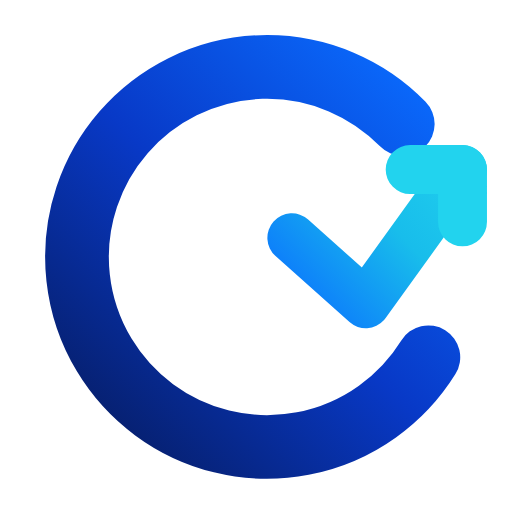
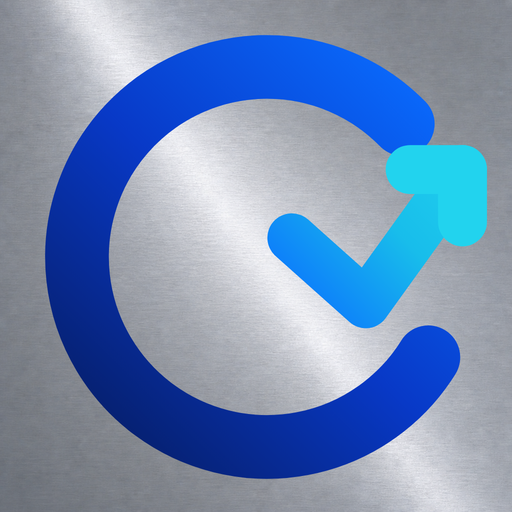
feat: refresh prompts and silver listing identity (#3)
Scope: v0.1.2 steer-first anti-churn prompts, silver satin identity, release evidence, and provider metadata

Checks: 55 tests passed; release and provider validators passed

Safety: existing plugin identity retained; no provider publication in this commit.

diff --git a/tools/validate_release_candidate.py b/tools/validate_release_candidate.py
@@ -24,9 +24,9 @@ CORE = PLUGIN / "scripts" / "churn_control.py"
 EXPECTED_SUBTITLE = "Stop duplicate agent work"
 EXPECTED_LONG = "Use this before repeating an agent test, review, retry, tool call, or promotion check. Anti-Churn compares the proposed local action with accepted evidence, reuses matching results, permits changed work through typed invalidation, and shows what may be skipped versus what still must run. Do not use rate-limit percentage as stop authority; it gates only the duplicate action and never stops the task, publishes, or changes permissions."
 EXPECTED_PROMPTS = [
-    "Before rerunning this test suite, check whether accepted evidence already covers the same candidate and requirements.",
-    "This candidate changed. Tell me which checks are actually invalidated and which results I can reuse.",
-    "Audit this long agent task for repeated tests, reviews, retries, polling, and duplicate status updates.",
+    "Steer: We’ve been working on this build for a long time and the task is starting to sprawl. Audit the work so far against the original goal, identify repeated tests, reviews, retries, polling, or status updates, and tell me what evidence we can reuse. Keep the task moving, but stop us from burning tokens on duplicate work.",
+    "Before we run another full test and review cycle, check whether the current candidate and requirements are already covered. Show what must still run and what would be duplicate work.",
+    "This candidate changed after the last review. Compare the changed files and requirements with the accepted evidence, tell me which checks were actually invalidated, and reuse everything that still applies.",
 ]
 
 REQUIRED_FILES = (
@@ -56,6 +56,9 @@ REQUIRED_FILES = (
     "plugins/agent-churn-control/assets/sample-efficiency-measurement.json",
     "plugins/agent-churn-control/assets/Agent Churn Control Vector Master 230826.svg",
     "plugins/agent-churn-control/assets/Agent Churn Control Vector Dark 230826.svg",
+    "plugins/agent-churn-control/assets/Agent Churn Control Transparent Raster Master 230826.png",
+    "plugins/agent-churn-control/assets/Anti-Churn Silver Satin Master 240826.png",
+    "plugins/agent-churn-control/assets/Silver Satin Background Master 240826.png",
     "plugins/agent-churn-control/assets/Logo Generation Manifest 230826.json",
     "plugins/agent-churn-control/assets/icon.png",
     "plugins/agent-churn-control/assets/logo.png",
@@ -186,7 +189,7 @@ def validate_metadata() -> list[str]:
     measurement = load_json(PLUGIN / "assets" / "sample-efficiency-measurement.json")
     skill_text = (PLUGIN / "skills" / "agent-churn-control" / "SKILL.md").read_text(encoding="utf-8-sig")
     expected = {
-        "name": "agent-churn-control", "version": "0.1.1", "license": "MIT",
+        "name": "agent-churn-control", "version": "0.1.2", "license": "MIT",
         "homepage": "https://github.com/SpannDaMan/agent-churn-control",
         "repository": "https://github.com/SpannDaMan/agent-churn-control",
     }
@@ -256,9 +259,9 @@ def validate_metadata() -> list[str]:
         errors.append("Claude marketplace root mismatch")
     else:
         claude_entry = claude_entries[0]
-        if claude_entry.get("name") != "anti-churn" or claude_entry.get("source") != "./plugins/agent-churn-control" or claude_entry.get("version") != "0.1.1":
+        if claude_entry.get("name") != "anti-churn" or claude_entry.get("source") != "./plugins/agent-churn-control" or claude_entry.get("version") != "0.1.2":
             errors.append("Claude marketplace plugin entry mismatch")
-    if claude_plugin.get("name") != "anti-churn" or claude_plugin.get("version") != "0.1.1" or claude_plugin.get("author", {}).get("name") != "Orbral":
+    if claude_plugin.get("name") != "anti-churn" or claude_plugin.get("version") != "0.1.2" or claude_plugin.get("author", {}).get("name") != "Orbral":
         errors.append("Claude plugin identity mismatch")
     return errors
 
@@ -303,8 +306,8 @@ def validate_activation_suite() -> list[str]:
 def validate_assets() -> list[str]:
     errors: list[str] = []
     expected = {
-        "icon.png": (512, 512, True), "logo.png": (1024, 1024, True),
-        "logo-dark.png": (1024, 1024, True), "screenshot1.png": (1600, 1000, False),
+        "icon.png": (512, 512, False), "logo.png": (1024, 1024, False),
+        "logo-dark.png": (1024, 1024, False), "screenshot1.png": (1600, 1000, False),
     }
     for name, (width, height, transparent) in expected.items():
         path = PLUGIN / "assets" / name
@@ -326,6 +329,11 @@ def validate_assets() -> list[str]:
             height_fill = (box[3] - box[1]) / height
             if width_fill < 0.82 or height_fill < 0.70:
                 errors.append(f"asset safe fill too small: {name} {width_fill:.3f}x{height_fill:.3f}")
+        else:
+            rgba = image.convert("RGBA")
+            corners = (rgba.getpixel((0, 0))[3], rgba.getpixel((width - 1, 0))[3], rgba.getpixel((0, height - 1))[3], rgba.getpixel((width - 1, height - 1))[3])
+            if corners != (255, 255, 255, 255):
+                errors.append(f"asset must be opaque and full-bleed: {name}")
     return errors
 
 
@@ -357,7 +365,7 @@ def run_validation() -> dict[str, Any]:
     errors = sorted({error for group in checks.values() for error in group})
     return {
         "status": "pass" if not errors else "fail",
-        "candidate": "agent-churn-control 0.1.1",
+        "candidate": "agent-churn-control 0.1.2",
         "product_revision_sha256": product_revision(),
         "checks": {name: "pass" if not group else "fail" for name, group in checks.items()},
         "errors": errors,

diff --git a/plugins/agent-churn-control/scripts/churn_control.py b/plugins/agent-churn-control/scripts/churn_control.py
@@ -877,7 +877,7 @@ def verify_package(manifest_path: Path) -> list[str]:
     }
     if set(manifest) != expected_manifest_fields:
         errors.append("package manifest fields are invalid")
-    if manifest.get("schema_version") != "1.0" or manifest.get("plugin_id") != "agent-churn-control" or manifest.get("version") != "0.1.1":
+    if manifest.get("schema_version") != "1.0" or manifest.get("plugin_id") != "agent-churn-control" or manifest.get("version") != "0.1.2":
         errors.append("package manifest identity is invalid")
     if manifest.get("release_state") not in {"public_release_candidate", "published"}:
         errors.append("package release_state is invalid")

diff --git a/tools/build_package_manifest.py b/tools/build_package_manifest.py
@@ -46,7 +46,7 @@ def main() -> int:
     manifest = {
         "schema_version": "1.0",
         "plugin_id": "agent-churn-control",
-        "version": "0.1.1",
+        "version": "0.1.2",
         "release_state": "public_release_candidate",
         "aggregate_algorithm": "sha256_sorted_path_canonical_hash_bytes_v2",
         "package_payload_sha256": aggregate,

diff --git a/docs/CODEX-INSTALL.md b/docs/CODEX-INSTALL.md
@@ -17,7 +17,7 @@ python "<installed-plugin-path>/scripts/churn_control.py" self-test
 python "<installed-plugin-path>/scripts/churn_control.py" verify-package
 ```
 
-The installed plugin should report version `0.1.1`, developer `Orbral`, one skill, no apps, and no MCP server. Use the absolute installed plugin root shown by `codex plugin list` when invoking `scripts/churn_control.py`; do not assume the user's project contains the plugin scripts.
+The installed plugin should report version `0.1.2`, developer `Orbral`, one skill, no apps, and no MCP server. Use the absolute installed plugin root shown by `codex plugin list` when invoking `scripts/churn_control.py`; do not assume the user's project contains the plugin scripts.
 
 ## Remove
 

diff --git a/RELEASE-CHECKLIST.md b/RELEASE-CHECKLIST.md
@@ -8,7 +8,7 @@
 - [ ] Release validator reports one frozen candidate hash.
 - [ ] Submission ZIP matches the frozen hash and contains no generated residue.
 - [ ] GitHub feature branch, PR, mergeability, review, and CI pass.
-- [ ] Public v0.1.1 tag and release target the merged commit.
+- [ ] Public v0.1.2 tag and release target the merged commit.
 - [ ] Private vulnerability reporting is enabled.
 - [ ] Clean Codex marketplace installation passes.
 - [ ] OpenAI skills-only upload, skill validation, attestations, approval, publication, and public readback match the prepared packet.

diff --git a/docs/doctrine_review.md b/docs/doctrine_review.md
@@ -2,7 +2,7 @@
 
 ## Decision
 
-Anti-Churn v0.1.1 is approved as a narrow, local, skills-only duplicate-work control.
+Anti-Churn v0.1.2 is approved as a narrow, local, skills-only duplicate-work control.
 
 ## Invariants
 
@@ -29,4 +29,4 @@ The release requires versioned fixtures, unit tests, package integrity, public-t
 
 ## Disposition
 
-Pass for v0.1.1 when the candidate-bound release receipt and hosted promotion gates are complete.
+Pass for v0.1.2 when the candidate-bound release receipt and hosted promotion gates are complete.

diff --git a/CHANGELOG.md b/CHANGELOG.md
@@ -1,5 +1,11 @@
 # Changelog
 
+## 0.1.2 - 2026-08-24
+
+- Added the operator-approved long-build steer, full-cycle reuse, and changed-candidate invalidation prompts in the approved order.
+- Promoted the exact Anti-Churn mark over the locked full-bleed Silver Satin marketplace background.
+- Preserved typed invalidation, advisory rate telemetry, content-free receipts, and local-action-only authority.
+
 ## 0.1.1 - 2026-08-23
 
 - Renamed the public product to Anti-Churn while preserving the stable `agent-churn-control` package slug.
